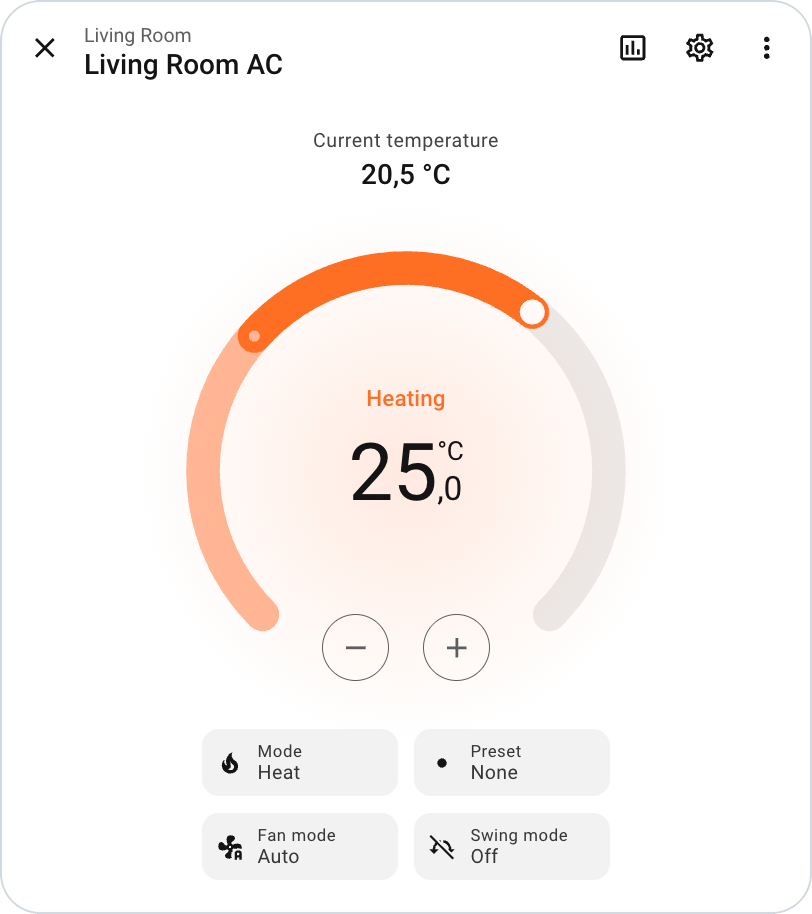
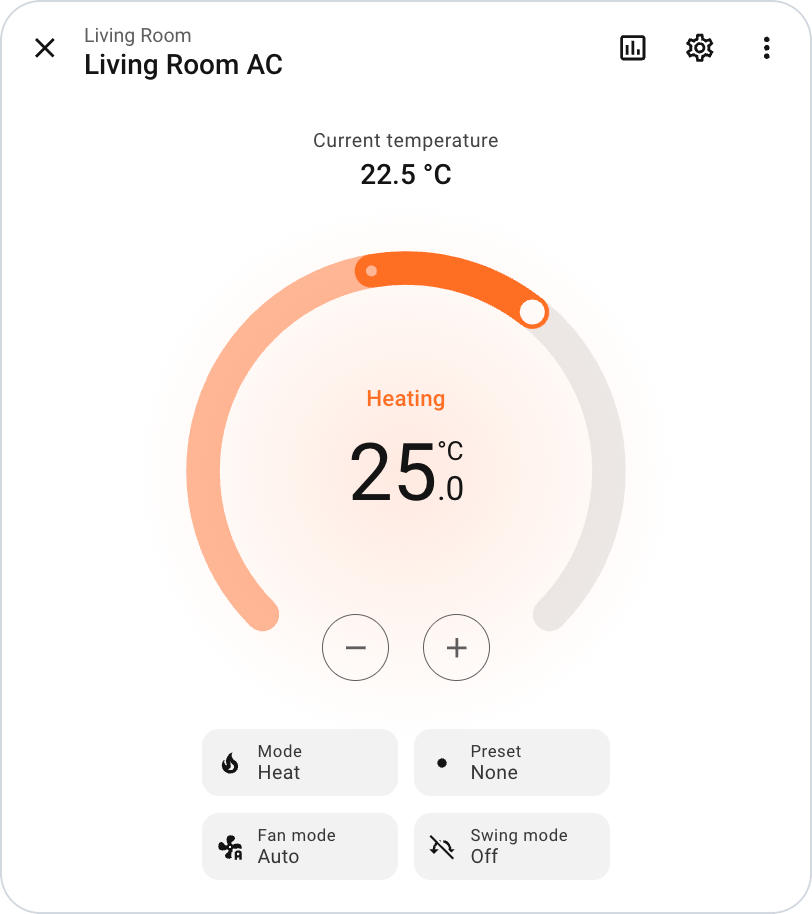
Retake the README screenshots: larger device cards, decimal points

Changed region(s): [[0.2771, 0.2757, 0.4618, 0.3982], [0.4618, 0.1838, 0.5542, 0.2144], [0.5234, 0.5208, 0.585, 0.5514]]

diff --git a/README.md b/README.md
@@ -35,10 +35,11 @@ See [Credits](#credits).
   cut), the component flags a warning and redoes the handshake until it is back.
 
 Everything beyond the climate entity is optional. With the sensors, switches
-and a vane select configured, the device page in Home Assistant looks like this:
+and a vane select configured, the device page in Home Assistant shows these
+cards:
 
 <p align="center">
-  <img src="docs/images/ha-device.png" width="560" alt="Device page in Home Assistant" />
+  <img src="docs/images/ha-device.png" width="340" alt="Controls, sensors and configuration cards on the Home Assistant device page" />
 </p>
 
 ## Compatibility
